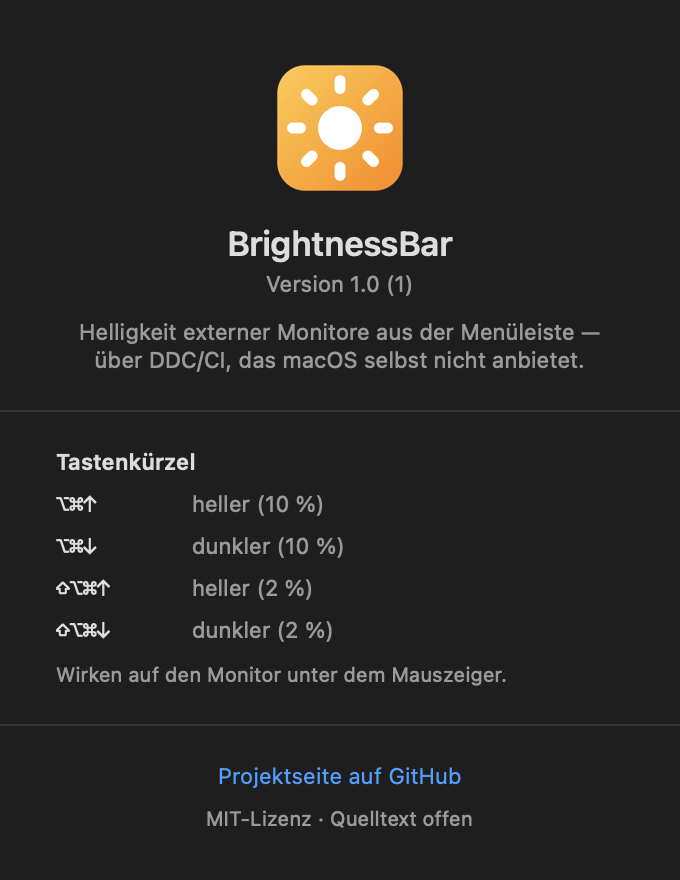
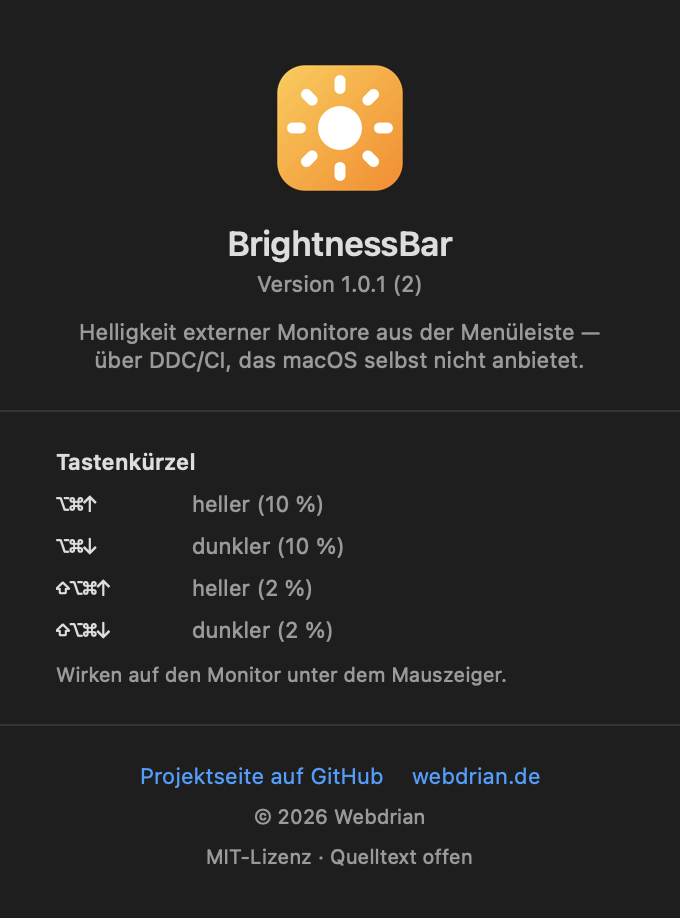
Copyright-Hinweis und Website-Link ergänzen, Version 1.0.1
Das Info-Fenster nennt jetzt den Rechteinhaber und verlinkt neben der
Projektseite auch webdrian.de. Der Copyright-String steht in der Info.plist,
damit ihn auch der Finder unter „Informationen" anzeigt, und wird von dort
gelesen statt im Code doppelt zu stehen.

Versionssprung auf 1.0.1, weil sich das ausgelieferte Binary ändert — das
Release-Asset soll zu seinem Tag passen.

diff --git a/Sources/AboutWindow.swift b/Sources/AboutWindow.swift
@@ -18,6 +18,13 @@ enum AppInfo {
     }
 
     static let repositoryURL = URL(string: "https://github.com/Webdrian/BrightnessBar")!
+    static let websiteURL = URL(string: "https://webdrian.de")!
+
+    /// Read from the bundle rather than hard-coded, so the year lives in one place.
+    static var copyright: String {
+        Bundle.main.object(forInfoDictionaryKey: "NSHumanReadableCopyright") as? String
+            ?? "© 2026 Webdrian"
+    }
 }
 
 // MARK: - About window
@@ -98,9 +105,16 @@ struct AboutView: View {
 
             Divider().padding(.vertical, 18)
 
-            VStack(spacing: 8) {
-                Link("Projektseite auf GitHub", destination: AppInfo.repositoryURL)
-                    .font(.system(size: 11))
+            VStack(spacing: 7) {
+                HStack(spacing: 14) {
+                    Link("Projektseite auf GitHub", destination: AppInfo.repositoryURL)
+                    Link("webdrian.de", destination: AppInfo.websiteURL)
+                }
+                .font(.system(size: 11))
+
+                Text(AppInfo.copyright)
+                    .font(.system(size: 10))
+                    .foregroundStyle(.secondary)
                 Text("MIT-Lizenz · Quelltext offen")
                     .font(.system(size: 10))
                     .foregroundStyle(.secondary)
